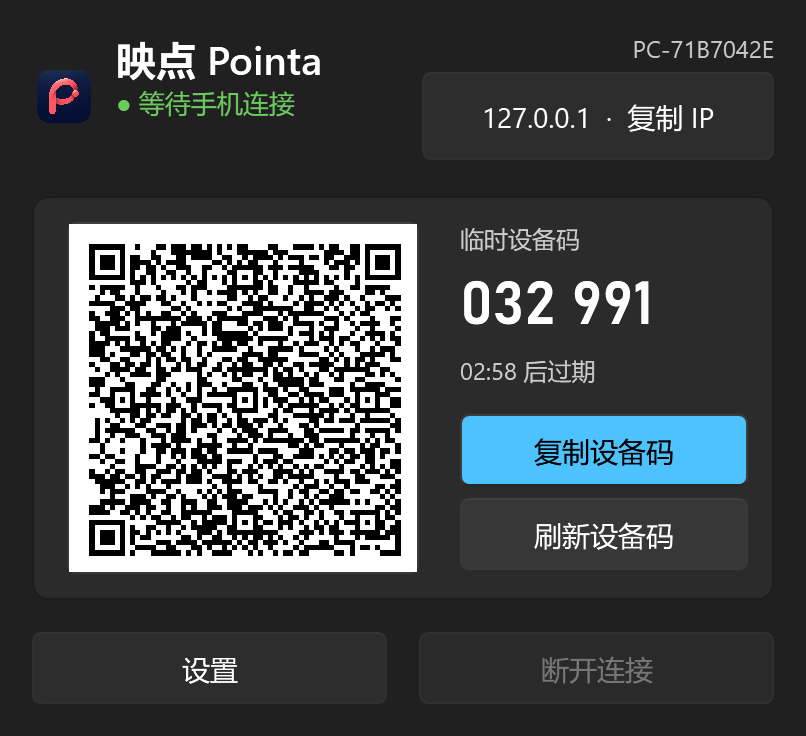
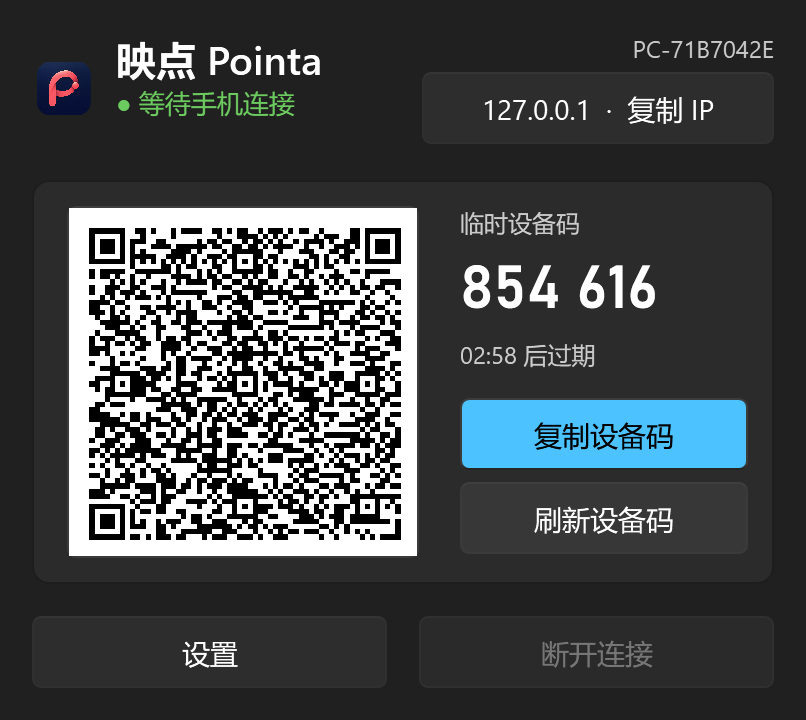
fix(windows): match IP action to standard button height

diff --git a/src/Pointa.Windows/PairingWindow.cs b/src/Pointa.Windows/PairingWindow.cs
@@ -39,7 +39,7 @@ internal sealed class PairingWindow : DesktopWindow
             catch (System.Runtime.InteropServices.ExternalException) { ClipboardBusy(); }
         });
         address.HorizontalAlignment = W.HorizontalAlignment.Stretch;
-        address.FontSize = 14; address.MinHeight = 44; address.Padding = new W.Thickness(8, 6, 8, 6);
+        address.FontSize = 14; address.Padding = new W.Thickness(8, 6, 8, 6);
         System.Windows.Automation.AutomationProperties.SetName(address, T("复制电脑 IP", "Copy computer IP"));
         address.Margin = new W.Thickness(0, 4, 0, 0);
         host.TextAlignment = W.TextAlignment.Right;
@@ -102,8 +102,9 @@ internal sealed class PairingWindow : DesktopWindow
         currentAddress = lanAvailable ? ipAddress : null;
         if (now >= copiedIpUntil)
         {
-            if (address.Content is not C.TextBlock) address.Content = new C.TextBlock { TextWrapping = W.TextWrapping.Wrap, TextAlignment = W.TextAlignment.Center };
+            if (address.Content is not C.TextBlock) address.Content = new C.TextBlock { TextTrimming = W.TextTrimming.CharacterEllipsis, TextAlignment = W.TextAlignment.Center };
             ((C.TextBlock)address.Content).Text = currentAddress is not null ? T($"{currentAddress}  ·  复制 IP", $"{currentAddress} · Copy IP") : T("请连接 Wi-Fi 或有线网络", "Connect to Wi-Fi or Ethernet");
+            address.ToolTip = currentAddress;
         }
         if (now >= copiedCodeUntil) copy.Content = T("复制设备码", "Copy code");
         address.IsEnabled = currentAddress is not null;

diff --git a/src/Pointa.Windows/UiSelfCheck.cs b/src/Pointa.Windows/UiSelfCheck.cs
@@ -27,7 +27,8 @@ internal static class UiSelfCheck
                     var ip = window.AddressButton.TranslatePoint(new W.Point(), window);
                     var qr = window.QrImage.TranslatePoint(new W.Point(), window);
                     Check(ip.X >= window.ActualWidth * .45 && window.AddressButton.ActualWidth >= 176 &&
-                        window.AddressButton.ActualHeight >= 44 && ip.Y < qr.Y, "Large IP action fills the upper-right header");
+                        Math.Abs(window.AddressButton.ActualHeight - window.SettingsButton.ActualHeight) < 1 &&
+                        ip.Y < qr.Y, "IP action fills the upper-right header with the standard button height");
                     var refresh = window.RefreshButton.TranslatePoint(new W.Point(), window);
                     var buttons = window.SettingsButton.TranslatePoint(new W.Point(), window);
                     Check(refresh.X + window.RefreshButton.ActualWidth / 2 > window.ActualWidth / 2 &&

diff --git a/docs/validation.md b/docs/validation.md
@@ -1,5 +1,9 @@
 # Windows 开发验证记录
 
+## 0.1.8 IP 按钮高度（2026-11-16）
+
+IP 复制按钮复用普通按钮的 36 DIP 最小高度，不再单独设为 44 DIP；长文本单行省略，悬停显示完整地址。Release 构建通过，完整 UI/native smoke 通过，实际高度与设置按钮相等的断言覆盖中英及深浅色布局。证据：`artifacts/v0.1.8-ui-smoke/`。
+
 ## 0.1.7 右上角 IP 复制区（2026-11-16）
 
 按用户最终红框，IP 保留在右上角设备名下方，区域宽 176 DIP、高至少 44 DIP、字号 14；无额外二维码上方栏。Release 构建 0 警告/0 错误，完整 smoke 通过，新增右上角位置和触达尺寸断言，中英/深浅色截图已检查。前两次测试受到鼠标移动干扰，未计通过；最终运行未降低检查标准。证据：`artifacts/v0.1.7-ui-smoke/`。安装包加入项目 MIT 许可。

diff --git a/README.en.md b/README.en.md
@@ -23,7 +23,7 @@ Screenshots are captured from the running application in an isolated test enviro
 
 ## Get started
 
-**Preview: Windows 0.1.7 / Android 0.1.5. Release packages are pending acceptance testing.**
+**Preview: Windows 0.1.8 / Android 0.1.5. Release packages are pending acceptance testing.**
 
 Get both apps from [Windows releases](https://github.com/zichen0116/pointa-windows/releases) and [Android releases](https://github.com/zichen0116/pointa-android/releases). Until packages are published, build from source or download artifacts from successful Actions runs (GitHub login required).
 

diff --git a/CHANGELOG.md b/CHANGELOG.md
@@ -1,5 +1,9 @@
 # 更新记录
 
+## 0.1.8 · 2026-11-16 · 待验收
+
+IP 复制按钮恢复与其他按钮一致的标准高度，保留右上角位置及宽度。长文本单行省略，悬停可查看完整 IP。
+
 ## 0.1.7 · 2026-11-16 · 待验收
 
 右上角电脑 IP 复制区域加宽、增大字号和点击面积，保持紧凑窗口。

diff --git a/README.md b/README.md
@@ -30,7 +30,7 @@
 
 ## 开始使用
 
-**当前为预览版：Windows 0.1.7 / Android 0.1.5。正式安装包将在本轮验收后发布。**
+**当前为预览版：Windows 0.1.8 / Android 0.1.5。正式安装包将在本轮验收后发布。**
 
 | 需要安装 | 获取方式 |
 | --- | --- |
